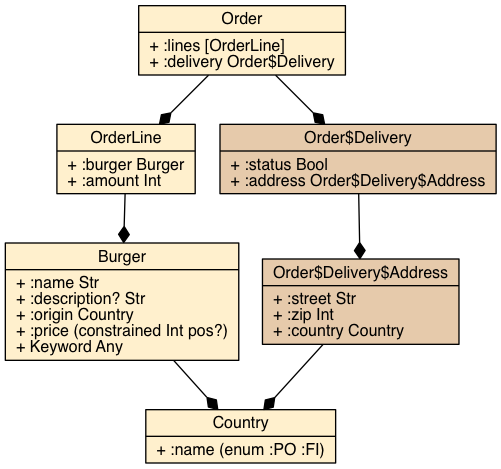
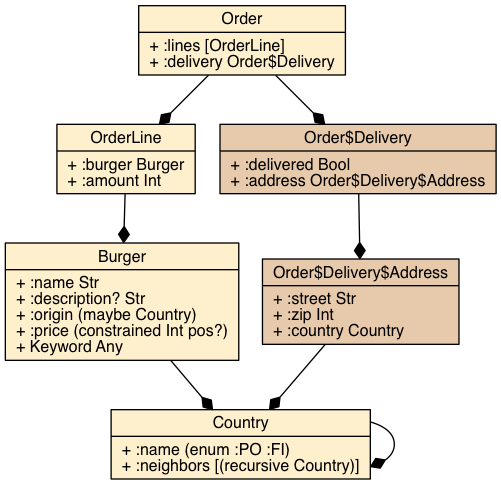
Generate new sample with s/recursive

diff --git a/README.md b/README.md
@@ -22,12 +22,13 @@ See docs for details.
 (require '[schema.core :as s])
 
 (s/defschema Country
-  {:name (s/enum :FI :PO)})
+  {:name (s/enum :FI :PO)
+   :neighbors [(s/recursive #'Country)]})
 
 (s/defschema Burger
   {:name s/Str
    (s/optional-key :description) s/Str
-   :origin Country
+   :origin (s/maybe Country)
    :price (s/constrained s/Int pos?)
    s/Keyword s/Any})
 
@@ -37,7 +38,7 @@ See docs for details.
 
 (s/defschema Order
   {:lines [OrderLine]
-   :delivery {:status s/Bool
+   :delivery {:delivered s/Bool
               :address {:street s/Str
                         :zip s/Int
                         :country Country}}})
